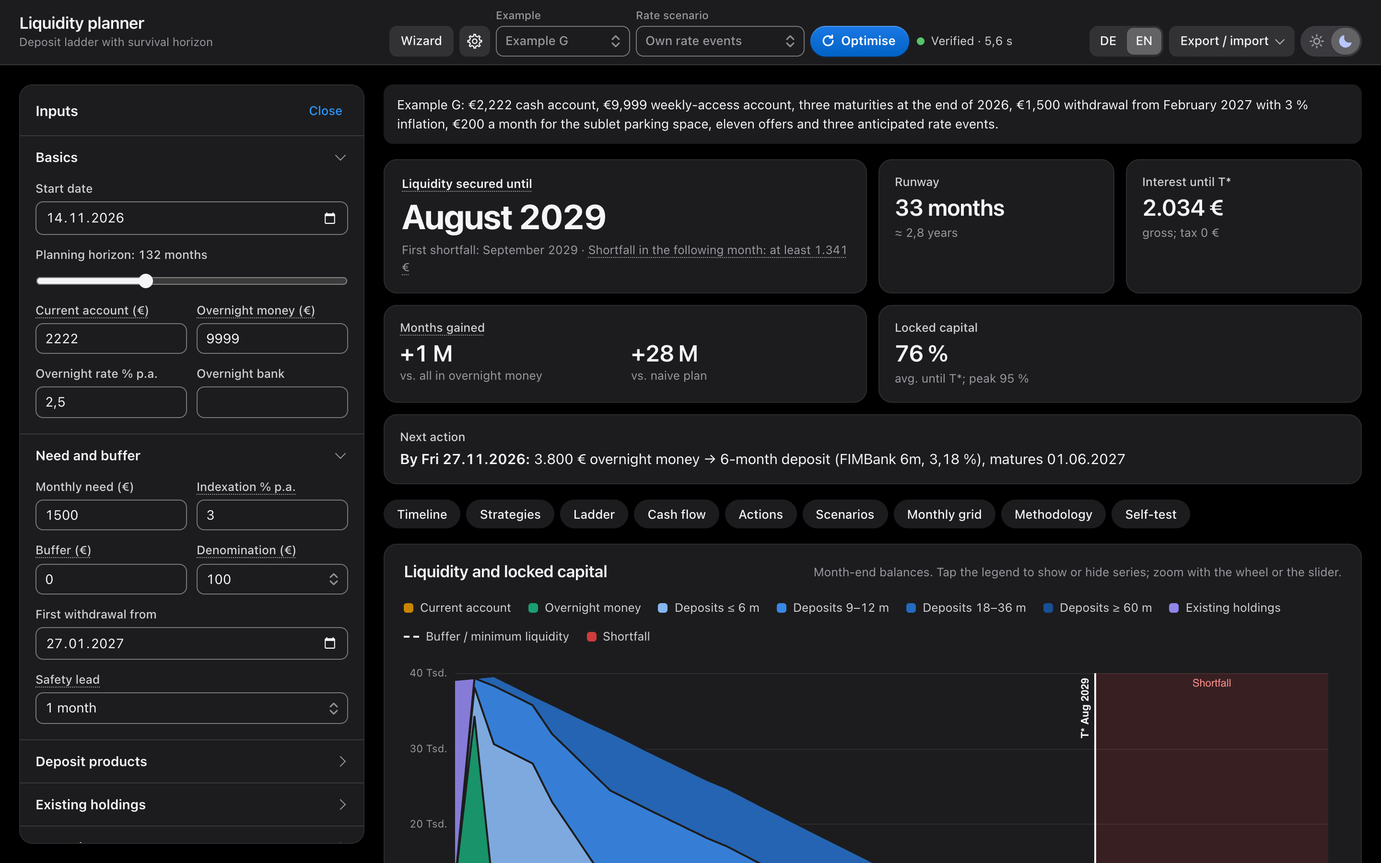
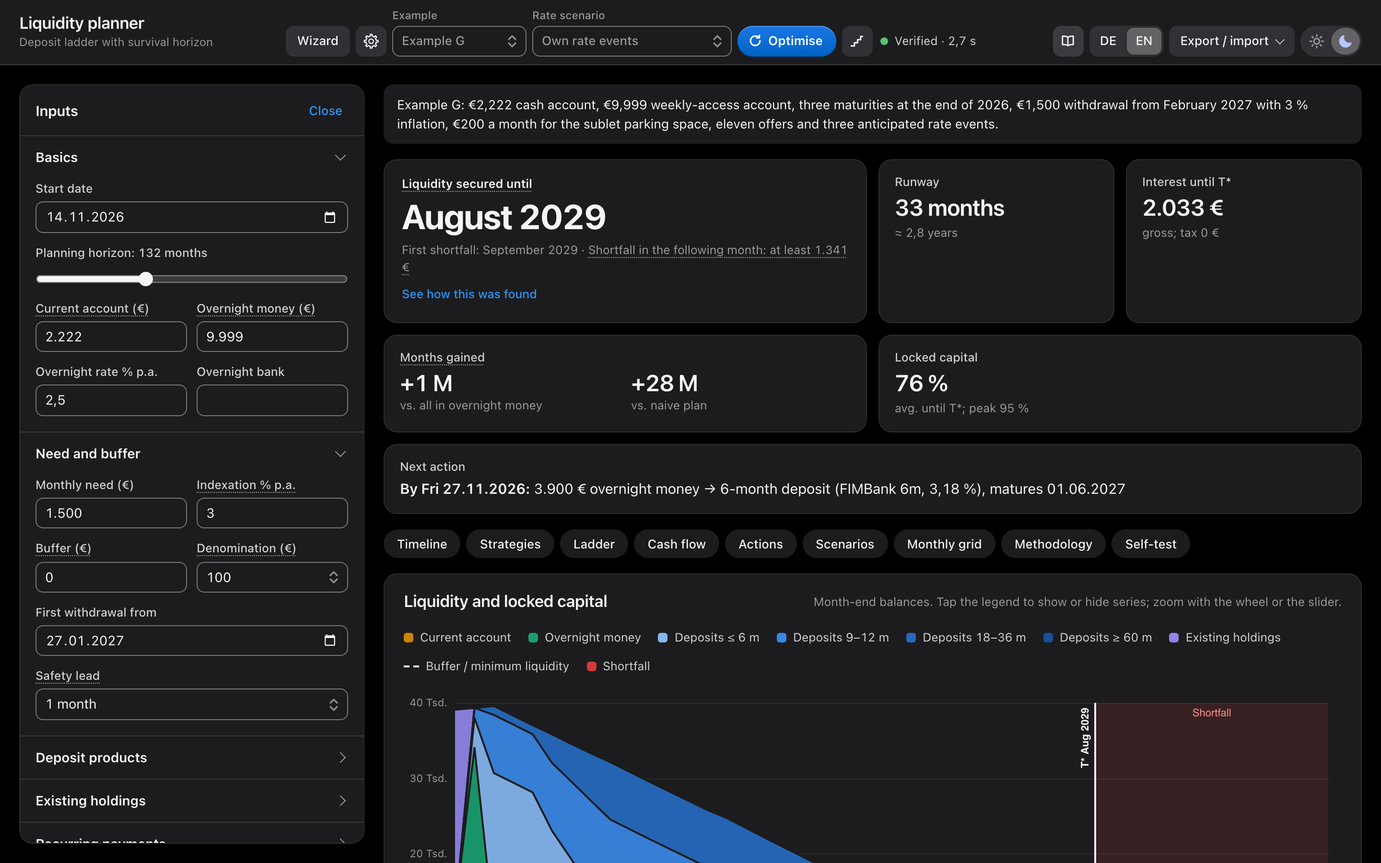
README for 1.3: handbook, theory chapters, ladder spreadsheet; code links realigned; screenshots refreshed

diff --git a/README.md b/README.md
@@ -49,22 +49,23 @@ Interest is a secondary goal by construction: it can never shorten T\*. There is
 | **KPIs** | T\*, runway in months, months gained against two baselines, interest until T\*, share of locked capital, the next action to take |
 | **Timeline** | Month-end balances as stacked areas: current account, overnight money, deposits by term bucket, existing holdings, buffer line, shortfall zone |
 | **Strategies** | Optimised plan vs. "everything in overnight money" vs. a naive rate chaser, as available liquidity or total wealth |
-| **Ladder** | One bar per tranche from placement to maturity, per year or for the whole horizon; tap a bar for details |
+| **Ladder** | One bar per tranche from placement to maturity, per year or for the whole horizon; tap a bar for details. *Download* saves the ladder as a small spreadsheet for Excel and Google Sheets |
 | **Cash flow** | Waterfall per year or month: opening balance, income, need, other expenses, placements, deposit repayments, overnight interest, tax, closing balance |
 | **Actions** | A dated to-do list: order deadlines, value dates, maturities, and the monthly transfer to the current account |
 | **Scenarios** | The whole optimisation re-run and re-verified under each interest-rate scenario |
 | **Monthly grid** | Month-by-month table. Extra need, extra income and a minimum liquidity can be overridden for single months |
 | **Step by step** | The decisions the optimiser took for the plan on screen, one at a time: each question and its answer, the months asked about so far, the plan at that step as month-end balances (or the progress of the integer search), and the linear system behind it |
-| **Methodology / Self-test** | The model explained inside the app, and a button that tests solver, simulator and Excel export against each other |
+| **Methodology / Self-test** | The model explained inside the app, and a button that tests solver, simulator, Excel export and ladder spreadsheet against each other |
+| **Handbook** | A page of its own with sixteen chapters, from a quick start to five theory chapters with formulas and an interactive simplex chart, plus frequently asked questions, the glossary and *What's new*; a search finds every word |
 
 <table>
 <tr>
-<td width="50%"><img src="docs/screenshots/start.png" alt="Blank start screen"><br><sub>Start: a blank slate with two ways in</sub></td>
+<td width="50%"><img src="docs/screenshots/start.png" alt="Blank start screen with the Handbook button and a link into the handbook"><br><sub>Start: a blank slate with two ways in, and the handbook</sub></td>
 <td width="50%"><img src="docs/screenshots/ready.png" alt="Example loaded, ready to optimise"><br><sub>Data loaded: Optimise is now active</sub></td>
 </tr>
 <tr>
 <td width="50%"><img src="docs/screenshots/wizard.png" alt="Setup wizard"><br><sub>Six-chapter setup wizard</sub></td>
-<td width="50%"><img src="docs/screenshots/ladder.png" alt="Deposit ladder as Gantt bars"><br><sub>Ladder: one bar per tranche</sub></td>
+<td width="50%"><img src="docs/screenshots/ladder.png" alt="Deposit ladder as Gantt bars, with the Download button in the card's head"><br><sub>Ladder: one bar per tranche, and the spreadsheet download</sub></td>
 </tr>
 <tr>
 <td><img src="docs/screenshots/actions.png" alt="Dated action list"><br><sub>What to do, and when</sub></td>
@@ -78,6 +79,10 @@ Interest is a secondary goal by construction: it can never shorten T\*. There is
 <td colspan="2"><img src="docs/screenshots/steps.png" alt="Step-by-step view: the list of steps, the question of step 7 and its answer, the horizon strip and the progress of the integer search"><br><sub>Step by step: how the plan was found, here the integer search against the best case</sub></td>
 </tr>
 <tr>
+<td><img src="docs/screenshots/handbook.png" alt="Handbook: search field, chapter menu in five groups and the Quick start chapter"><br><sub>Handbook: chapter menu, search, and a chapter</sub></td>
+<td><img src="docs/screenshots/theory.png" alt="Theory chapter: the simplex chart with the feasible region, the path to the optimum, sliders and the cross-check"><br><sub>Theory: the app's simplex walks to the optimum of a toy model</sub></td>
+</tr>
+<tr>
 <td><img src="docs/screenshots/overview-dark.png" alt="Dark theme"><br><sub>Dark theme</sub></td>
 <td align="center"><img src="docs/screenshots/mobile.png" alt="Phone layout" width="45%"><br><sub>Phone layout</sub></td>
 </tr>
@@ -86,20 +91,24 @@ Interest is a secondary goal by construction: it can never shorten T\*. There is
 ## Using the app
 
 - **Online**: open the [GitHub Pages site](https://julianhilgemann.github.io/liquiplan-app/).
-- **Your own copy**: save [the published page](https://julianhilgemann.github.io/liquiplan-app/Liquiditaetsplaner_20261114.html), or build it from this repository with `node build.mjs` (see the [code guide](#code-guide)), and open the file in a browser. It is one HTML file and needs no server. The page loads its charting, solver and Excel libraries from jsDelivr. If the solver libraries cannot load, a solver built into the page takes over.
+- **Your own copy**: save [the published page](https://julianhilgemann.github.io/liquiplan-app/Liquiditaetsplaner_20261114.html), or build it from this repository with `node build.mjs` (see the [code guide](#code-guide)), and open the file in a browser. It is one HTML file and needs no server. The page loads its charting, solver and Excel libraries from jsDelivr, and the formula typesetter when a theory chapter of the handbook is first opened. If the solver libraries cannot load, a solver built into the page takes over.
 - **First visit**: the app opens on a blank slate with two choices, *Open the wizard* or *Load example G*. **Optimise** stays greyed out until there is data. The setup wizard has six chapters, of which only the first two are required: starting liquidity and withdrawals, the economic baseline, expected central-bank rate steps, ongoing deposits, other recurring payments and new deposit offers. A chapter menu (a list on phones) jumps between them, and **Analysis** in the toolbar leads back. Once there is data, the gear button (*Inputs*) shows the same data as a side panel with a few extra settings (buffer, safety lead, denomination, tax, deposit-guarantee cap, pinned tranches).
 - **Examples**: *Example G* (the reference case from the original specification), *Retirement with rental income* (20 years, pension from 2028, large one-off repairs, tax on) and *Rate trap* (example G plus a tempting 10-year deposit at 5.9 % that a naive rate chaser falls for).
 - **Rate scenarios**: own central-bank steps, current rates held constant, −1 pp from 2028, rising rates (+0.5 pp a year up to +1.5 pp), inverted curve.
 - **Calculation is manual**: nothing is computed until you press **Optimise**, not even when the page opens or an example is loaded. A card then confirms that the data is loaded and points to the button. After an input change the old results are greyed out until the next run. A progress dialog then ticks off each optimisation stage; *Cancel* stops the run and keeps the previous results on screen.
 - **Step by step**: a page of its own, like the wizard, that replays the decisions the optimiser took for the plan on screen, one at a time, with the list of steps beside it and *Back* / *Next* below. Three ways in: the *Step by step* button in the toolbar (an icon only in windows from 721 to 1519 px wide), *See how this was found* in the *Liquidity secured until* tile, and the button in the Methodology section. Without a current result (none yet, or the inputs have changed since), each of them runs **Optimise** first and opens the page when the run is over. On phones the list and the step take turns: *All steps* leads to the list, a tap on a step opens it. ← and → move one step, Home and End jump to the first and the last, and Escape, *Analysis* in the toolbar or *Back to the analysis* on the last step lead back.
+- **Handbook**: *Handbook* in the toolbar opens the in-app handbook, a page of its own like the wizard. Above the analysis the button is an icon only in windows from 721 to 1599 px wide; it is also there, with its label, on the blank slate and in the wizard. The blank slate (*New here? …*), the Methodology section (*Explained in the handbook*) and the foot of the page link into it as well. Sixteen chapters in five groups: *Getting started* (*What Liquiplan is*, *Quick start*), *Using Liquiplan* (*Entering your data*, *Reading the results*, *How-tos*, *Your data and privacy*), *Background* (*How the optimiser thinks*), *Theory* (*Linear programming in one picture*, *The ladder as a linear model*, *One goal after another*, *Whole steps and minimum amounts*, *Why the result can be trusted*) and *Reference* (*Frequently asked questions* with 15 questions, *Glossary*, *What's new*, *Disclaimer*). The search above the chapter finds every word, with or without umlauts (`uber` and `ueber` both find *über*); ↑ / ↓ and Enter pick a result, and outside the theory chapters the words are marked in the section it opens. `/` jumps into the search, Escape clears it, and Escape anywhere else closes the handbook, as does the toolbar button, which reads *Analysis* while the handbook is open (*Wizard* if it was opened from the wizard).
+- **Handbook addresses** (in German, like the code: *Handbuch*): `#handbuch` opens the handbook (the chapter list on phones, otherwise the chapter read last, at first *What Liquiplan is*), `#handbuch/<chapter>` a chapter, `#handbuch/<chapter>/<section>` a section, and `#handbuch/<section-id>` finds a section by its id alone. Any part can be linked to: the app opened at `…/liquiplan-app/#handbuch/quick` starts on the quick start. Every chapter opened is a step in the browser history: Back goes back through the chapters and finally out of the handbook, and after leaving it, Back opens it again.
+- **Version and What's new**: the foot of the page shows the version (*Version 1.3*), which links to *What's new*, the handbook chapter that lists the changes of each version, newest first.
+- **Ladder spreadsheet**: *Download* in the head of *Building blocks of the deposit ladder* saves a small workbook (.xlsx, for Excel and Google Sheets) with every deposit of the plan, on three sheets. *Tranches* lists them with type, bank, term, placement and maturity month, principal, rate, interest convention, total interest, payout at maturity, effective yield and the interest that falls within the plan, with totals and principal-weighted averages. *Monthly* and *Yearly* show each tranche as a roll-forward per month and per calendar year: opening balance + placement + capitalised interest + repayment = closing balance, plus the interest it pays out. Above the tranches stand their totals, the cash view of the liquid accounts (placements flow out, repayments and interest flow in) and check rows that must be 0. Amounts are in accounting format, every derived cell is a live formula with its value stored, and the ladder's bars are drawn as conditional formats in the app's colours. In German the sheets are *Tranchen*, *Monatsplan* and *Jahresplan*. The button is greyed out while there is no result, during a run and while the results are out of date; pressed then, it says why.
 - **Numbers**: every number field accepts a decimal comma or a decimal point, whatever language the browser is set to (`3,12` and `3.12` are the same rate). In amounts, `10.000` and `10,000` both mean ten thousand. The field echoes back what it understood, and text that is not a number is flagged and ignored instead of being read as 0.
-- **Export / import**: HTML with your inputs embedded, an Excel workbook with live formulas, the full state as JSON, and the rate table as JSON (for quick updates of offers).
+- **Export / import**: HTML with your inputs embedded, an Excel workbook with live formulas (the whole model in nine sheets; the ladder spreadsheet above is the lean one), the full state as JSON, and the rate table as JSON (for quick updates of offers).
 
-**Where your data lives.** Inputs are stored only in your browser's `localStorage`. Nothing is sent to a server; the only network requests fetch the libraries. The published file itself contains no data and opens on the blank slate. *Download HTML* writes a copy of the app with your current inputs embedded, so treat that file like a private document.
+**Where your data lives.** Inputs are stored only in your browser's `localStorage`. Nothing is sent to a server; the only network requests fetch the libraries. The published file itself contains no data and opens on the blank slate. *Download HTML* writes a copy of the app with your current inputs embedded, so treat that file like a private document, and the same goes for both spreadsheets and the JSON.
 
 ## Glossary of German terms
 
-The code and UI use German finance terms. The English UI translates them; here they are side by side.
+The code and UI use German finance terms. The English UI translates them; here they are side by side. The app's own glossary is the fuller one: the handbook chapter *Glossary* explains 46 terms in both languages, from the same entries as the tooltips of the dotted-underlined terms ([`glossary.js`](src/app/i18n/glossary.js)).
 
 | German | English | Meaning in the app |
 |---|---|---|
@@ -237,11 +246,13 @@ HiGHS and javascript-lp-solver must each solve a tiny test MILP correctly on loa
 
 **Inside the embedded solver** ([`Dense`](src/solver/simplex.js#L16), [`solveMILP`](src/solver/simplex.js#L329)):
 
-- A **bounded-variable tableau simplex**: two-phase [primal](src/solver/simplex.js#L144) with artificial variables, and [dual simplex](src/solver/simplex.js#L199) re-optimisation after bound changes, so every B&B node is warm-started from its parent's basis. A periodic [`refactor()`](src/solver/simplex.js#L66) rebuilds the tableau from the original rows to remove floating-point drift.
+- A **bounded-variable tableau simplex**: two-phase [primal](src/solver/simplex.js#L144) with artificial variables, and [dual simplex](src/solver/simplex.js#L199) re-optimisation after bound changes. Branch-and-bound keeps one tableau for the whole search: each node applies its bounds to whatever basis the solver last had (in depth-first order often its parent's, otherwise that of the node evaluated just before) and re-optimises from there instead of starting from scratch. A periodic [`refactor()`](src/solver/simplex.js#L66) rebuilds the tableau from the original rows to remove floating-point drift.
 - **Branch-and-bound** as a [depth-first search](src/solver/simplex.js#L422) with bound pruning and absolute/relative gap tolerances. A root heuristic (round everything down, fix it, re-solve) provides an early incumbent. The search cycles through three branching rules in slices of its work budget: chronological with semi-integer violations first and the down branch first (50 % of the budget), largest value (to 75 %), most fractional with the nearest branch first (to 100 %). It stops as soon as one rule has searched the tree completely.
 - **Semi-integer branching**: a column with `0 < n < min` branches into `n = 0` and `n ≥ min`, with no binary helper variable.
 
-**What the engine records.** Every answer the engine uses is also written to a log ([`Engine.log`](src/solver/engine.js#L19), one entry per call from [`rec()`](src/solver/engine.js#L23)): the kind of call (LP, integer search or yes/no question), the backend that answered, the size of the model, its rows and columns counted by kind (by the first letter of their name in `model.js`: `b` balance rows, `x` tax rows, `n` placements, …) and the status. When the answer came from the embedded solver, the entry also has its simplex pivots ([`pivots()`](src/solver/simplex.js#L14)) and, for an integer search, the search nodes. Pivots are known only then: HiGHS (like javascript-lp-solver) hands back only the final answer, not how it got there. The log is what the step-by-step view shows under the hood (section 6).
+The handbook's chapter *Linear programming in one picture* runs this same `Dense` on a toy model with two deposits and draws every corner it visits on the way to the optimum ([`walk()`](src/app/handbook/simplex-chart.js#L37)).
+
+**What the engine records.** Every answer the engine uses is also written to a log ([`Engine.log`](src/solver/engine.js#L19), one entry per call from [`rec()`](src/solver/engine.js#L23)): the kind of call (LP, integer search or yes/no question), the backend that answered, the size of the model, its rows and columns counted by kind (by the first letter of their name in `model.js`: `b` balance rows, `x` tax rows, `n` placements, …) and the status. When the answer came from the embedded solver, the entry also has its simplex pivots (counted in [`PIVOTS`](src/solver/simplex.js#L14), read with `LP.simplex.pivots()`) and, for an integer search, the search nodes. Pivots are known only then: HiGHS (like javascript-lp-solver) hands back only the final answer, not how it got there. The log is what the step-by-step view shows under the hood (section 6).
 
 ### 5. Independent verification: [`LP.sim.run()`](src/app/sim.js#L10) and [`verify()`](src/app/sim.js#L113)
 
@@ -286,9 +297,20 @@ The workbook is written with ExcelJS and post-processed with JSZip. It has nine 
 - The `Solver` sheet comes with **pre-filled Excel Solver settings** (`solver_*` defined names) to re-run stage 2 (maximise wealth at a fixed T\*) inside Excel, with step-by-step instructions.
 - [`sensitivity()`](src/app/xlsx.js#L61) re-simulates the plan under parallel rate shifts.
 
-### 9. Self-test: [`A.selftest()`](src/app/selftest.js#L7)
+### 9. The ladder spreadsheet: [`LP.ladderXlsx.build()`](src/app/ladder-xlsx.js#L97)
 
-The **Self-test** button runs, for every example: the plan is verified and the simulated T\* ≥ the solver's T\*; the optimised T\* ≥ the all-overnight baseline. Then three property tests: the rate trap never ends worse than the plain case; **adding a product never shortens T\***; **adding an inflow never shortens T\***. Finally the Excel export is built, re-opened with ExcelJS, and its formula values are compared with the web simulation (≤ 1 cent per month, same first shortfall).
+The *Download* button of the ladder card writes a second, much smaller workbook: only the deposits of the plan, as described under [Using the app](#using-the-app). It is built for Excel and Google Sheets alike, so it keeps to what both understand:
+
+- Written with ExcelJS alone, with no JSZip post-processing and no charts. Formulas use classic functions only (`SUM`, `SUMIF`, `SUMPRODUCT`, `COUNTIF`, `INDEX`, `EDATE`, `ROUND`, …), and the conditional formats (the ladder bars, maturity months, the T\* month, red check rows) are rules of the "formula" and "cell value" kinds that refer only to their own sheet.
+- The terms of each tranche are the inputs (blue) on *Tranches*; the blocks of *Monthly* and *Yearly* link to them (green), so a changed amount, rate, term or placement month recalculates both schedules. *Yearly* sums the monthly rows, and a second check row compares its closing balances with *Monthly* at each year end.
+- The bookkeeping follows the simulator: placed at the start of the month, repaid in the maturity month; *annual* pays interest out on each anniversary, *compound* adds it to the balance there, and an existing holding is a *simple* tranche whose term counts from the plan start. The schedule runs from the plan start to the last maturity, or to the end of the horizon for a tranche that matures later.
+- [`schedule()`](src/app/ladder-xlsx.js#L44) computes every formula cell in plain JS, the way the sheet computes it. Its values are stored as cached results, so the numbers show in viewers that do not recalculate, and the self-test compares them with the simulator.
+
+For this release every formula was verified by recalculating it with an independent formula engine; the file has not yet been opened in Excel or Google Sheets themselves.
+
+### 10. Self-test: [`A.selftest()`](src/app/selftest.js#L7)
+
+The **Self-test** button runs eleven checks. For every example: the plan is verified and the simulated T\* ≥ the solver's T\*; the optimised T\* ≥ the all-overnight baseline. Then three property tests: the rate trap never ends worse than the plain case; **adding a product never shortens T\***; **adding an inflow never shortens T\***. Then the Excel export is built, re-opened with ExcelJS, and its formula values are compared with the web simulation (≤ 1 cent per month, same first shortfall). Finally the ladder spreadsheet is built for example G and read back: in every month the tranches' closing balances add up to the locked capital, the placement, repayment and interest lines match the simulator's to the cent, and every check row is 0.
 
 ### Simplifications
 
@@ -319,12 +341,12 @@ The build needs Node.js and nothing else. It does not bundle, transpile or minif
 |---|---|---|---|
 | [`src/index.html`](src/index.html) | the page | – | the template: the head, the order of all includes, and [`<script id="src-theme">`](src/index.html#L10), which applies the saved light/dark choice before the first paint |
 | [`src/styles/`](src/styles/) | [`<style id="css">`](src/styles/tokens.css#L1) | – | the design system and the styles of each part of the page (see [Styles](#styles)) |
-| [`src/markup/`](src/markup/) | [`<div id="app">`](src/markup/toolbar.html#L1) | – | the static page skeleton: toolbar, wizard, the step-by-step view, the workspace with one file per result section, overlays |
+| [`src/markup/`](src/markup/) | [`<div id="app">`](src/markup/toolbar.html#L1) | – | the static page skeleton: toolbar, wizard, the step-by-step view, the handbook, the workspace with one file per result section and the footer, overlays |
 | [`src/core/`](src/core/) | [`<script id="src-core">`](src/core/core.js#L1) | main thread **and** worker | `core.js` (dates, calendar, timeline), `presets.js` |
 | [`src/solver/`](src/solver/) | [`<script id="src-solver">`](src/solver/model.js#L1) | worker | `model.js`, `simplex.js`, `backends.js`, `engine.js`, `optimize.js`, `workerglue.js` |
-| [`src/app/`](src/app/) | [`<script id="src-app">`](src/app/sim.js#L1) | main thread | `sim.js`, `i18n/`, `ui/`, `views/`, `xlsx.js`, `wizard.js`, `export.js`, `selftest.js`, `main.js` |
+| [`src/app/`](src/app/) | [`<script id="src-app">`](src/app/sim.js#L1) | main thread | `sim.js`, `i18n/`, `ui/`, `views/`, `xlsx.js`, `ladder-xlsx.js`, `wizard.js`, `handbook.js`, `export.js`, `selftest.js`, `handbook/` (the theory chapters), `main.js` |
 
-The page also carries [`<script id="embedded-state">`](src/index.html#L69): the inputs a downloaded copy was saved with, empty in the published app.
+The page also carries [`<script id="embedded-state">`](src/index.html#L74): the inputs a downloaded copy was saved with, empty in the published app.
 
 The three script blocks are a functional split: the worker is assembled from the text of `src-core` + `src-solver`, so a file's folder decides where it runs.
 
@@ -341,8 +363,9 @@ There are no ES modules. Every `.js` file is an IIFE that hangs its API on one g
 | [`controls.css`](src/styles/controls.css) | Fields, buttons, segmented control, theme switch |
 | `toolbar.css`, `shell.css`, `inputs.css` | Top bar with solver status and export menu, the two-column layout with the inputs drawer, input groups and entry cards |
 | `cards.css`, `kpis.css`, `notes.css`, `charts.css`, `tables.css` | Building blocks of the results: cards, KPI tiles, pills and notes and the section navigation, chart sizes and legends, tables |
-| `ladder.css`, `ladder-years.css`, `actions.css`, `waterfall.css`, `strategies.css` | One result section each |
-| `methodology.css`, `dialogs.css`, `empty-state.css`, `progress.css`, `wizard.css`, `replay.css`, `stale.css` | Methodology text and glossary tooltip, toasts and the JSON dialog, the blank slate, the progress dialog, the setup wizard, the step-by-step view, the "inputs changed" bar |
+| `ladder.css`, `ladder-years.css`, `actions.css`, `waterfall.css`, `strategies.css` | One result section each; `ladder.css` also styles the ladder's *Download* button |
+| `methodology.css`, `dialogs.css`, `empty-state.css`, `progress.css` | Methodology text and glossary tooltip, toasts and the JSON dialog, the blank slate, the progress dialog |
+| `wizard.css`, `replay.css`, `handbook.css`, `handbook-theory.css`, `stale.css` | The page modes: the setup wizard, the step-by-step view, the handbook (its toolbar button, search, menu, chapters, the page footer) and its theory chapters (formulas, the simplex chart); the "inputs changed" bar |
 | [`responsive.css`](src/styles/responsive.css) | Phones, touch targets, *Reduce Motion*. Last, so that it overrides the rest |
 
 ### How the parts work together
@@ -355,6 +378,7 @@ flowchart LR
         SS --> V["LP.sim.verify()"]
         V --> RA["renderAll()"]
         V --> X["LP.xlsx.build()"]
+        V --> LX["LP.ladderXlsx.build()<br/>(ladder spreadsheet)"]
         V --> RP["A.replay<br/>(step by step)"]
     end
     subgraph worker["Web Worker (src-core + src-solver)"]
@@ -366,7 +390,7 @@ flowchart LR
     OPT -- "placements, T*, trace" --> SS
 ```
 
-Besides the plan, the result carries the trace of the run (`res.trace`). The step-by-step view reads it from `A.view` only when it is opened; the result views do not use it.
+Besides the plan, the result carries the trace of the run (`res.trace`). The step-by-step view reads it from `A.view` only when it is opened; the result views do not use it. Both workbooks are built from `A.view` only when their button is pressed. The handbook stands apart from the run: it reads its texts, the glossary and the changelog, and only the theory chart touches solver code (it runs `LP.simplex.Dense` on a toy model of its own, on the main thread).
 
 ### Follow one run
 
@@ -379,6 +403,37 @@ If you want to read the code end to end, this is the order in which it executes 
 5. The result returns to `solveState`, goes through [`verify()`](src/app/sim.js#L113), and lands in `A.view`.
 6. [`renderAll()`](src/app/views/render.js#L38) draws KPIs, charts, ladder, waterfall, actions, scenarios and grid from `A.view`.
 7. When the scenarios are done, `A.run` calls [`A.replay.runDone()`](src/app/views/replay.js#L494) with its run id ([`A.runId`](src/app/views/pipeline.js#L71)). If the step-by-step view was asked for before this run, it opens now.
+
+### The handbook and the changelog
+
+The handbook ([`markup/handbook.html`](src/markup/handbook.html), [`app/handbook.js`](src/app/handbook.js)) is a page mode like the wizard and the step-by-step view: it puts the class `hb` on `#app`, hides the workspace and trims the toolbar to the way back, language and theme. Its chapters come from four sources. The menu, the page and the search index are all built from the same chapter list, so what is searched is what is shown.
+
+| Source | Becomes |
+|---|---|
+| [`app/i18n/handbook-de.js`](src/app/i18n/handbook-de.js), [`handbook-en.js`](src/app/i18n/handbook-en.js) (`LP.hb.de`, `LP.hb.en`) | The text chapters, one entry each: `{ t: title, l: lead, s: [[section id, title, html], …] }`. Section ids are the same in both languages and unique in the page, because they are addresses |
+| [`app/i18n/glossary.js`](src/app/i18n/glossary.js) (`LP.i18n.gloss`) | The *Glossary* chapter, one section per term; the same entries are behind the dotted-underlined terms everywhere in the app |
+| [`app/i18n/changelog.js`](src/app/i18n/changelog.js) (`LP.changelog`) | The *What's new* chapter, and `A.version`: the version the app shows is the first entry's |
+| `LP.hb.extra` | Chapters that other files add. [`app/handbook/theory.js`](src/app/handbook/theory.js) adds the five theory chapters there, with their texts in [`theory-de.js`](src/app/handbook/theory-de.js) and [`theory-en.js`](src/app/handbook/theory-en.js) and the chart in [`simplex-chart.js`](src/app/handbook/simplex-chart.js) |
+
+**Markup in the texts.** Titles and HTML of the text chapters may contain:
+
+- `[[key]]`: a UI label exactly as the app shows it, from `de.js` or `en.js`, so the handbook cannot drift from the buttons it names;
+- `[[#id]]`: a link to a chapter or a section, with the target's title as its text;
+- `{key}` or `{key|text}`: a glossary term with its tooltip;
+- `data-needs="<chapter id>"` on a `p`, `div` or `li`: the element is left out while that chapter does not exist, so the text chapters can refer to the theory chapters without depending on them.
+
+The theory texts use `$…$` for inline and `$$…$$` for display formulas (TeX, typeset by MathJax) and the same glossary markup. UI strings of the handbook live in `de.js` and `en.js` under the prefix `hb_` (those of the ladder spreadsheet under `lx_`).
+
+**Adding a chapter.** A file pushes an object onto `LP.hb.extra`: `{ id: 'th-…', title: { de, en }, sections: [{ id, title: { de, en }, text: { de, en } }], render(box, lang), teardown() }`. `render` fills an empty block element and creates one element per section whose `id` is the section's id; `text` is the plain text the search indexes; `teardown`, if present, runs before the chapter is left or drawn again. Such chapters appear in the menu group *Theory* after *How the optimiser thinks*; without any, the group is left out.
+
+**Addresses are the only state.** Links in the handbook are plain links to `#handbuch/…`, and the page follows `hashchange` and `popstate`, so every chapter opened is a history entry. [`A.handbook`](src/app/handbook.js#L27) offers `open(id)`, `close()`, `render()` (after a change of language or theme) and `isOpen()`, and for tests `index`, `search` and `chapters`.
+
+**The changelog rule.** Every user-visible change adds an item to [`changelog.js`](src/app/i18n/changelog.js), in German and in English, in the same commit as the change (refactoring, tests and the build get none). Version numbers are MAJOR.MINOR, with a third number for a release that only fixes things (1.3.1): MINOR goes up with every release that adds or changes something users see, MAJOR only when saved inputs or the JSON format stop working with the new version (the [state format](#state-format) is v1). The handbook section that describes the changed behaviour and this README move with the change too.
+
+### Before a pull request
+
+- [`CLAUDE.md`](CLAUDE.md) holds the working rules for AI-assisted development of this repository: what the code relies on, which documents move with a change, how a change is checked and released. It is a useful checklist for any contributor.
+- Run `node scripts/check.mjs` before opening a pull request. It builds the app, drives it in a headless browser, compares the plans with a baseline and checks that the links from this README into the code still point at their functions.
 
 ## Function reference
 
@@ -425,7 +480,7 @@ If you want to read the code end to end, this is the order in which it executes 
 | [`Dense.prototype.refactor`](src/solver/simplex.js#L66) | Rebuild the tableau from the original rows (removes drift) |
 | [`solveLP`](src/solver/simplex.js#L295) | One LP solve |
 | [`now`](src/solver/simplex.js#L13) | The work clock: every limit of the embedded solver is measured on it |
-| [`pivots`](src/solver/simplex.js#L14) | Number of simplex pivots so far, for the trace of a run. It only counts and never limits, so it cannot change a result |
+| [`PIVOTS`](src/solver/simplex.js#L14) / `pivots()` | Number of simplex pivots so far, read with `pivots()`, for the trace of a run. It only counts and never limits, so it cannot change a result |
 | [`polish`](src/solver/simplex.js#L304) | Fix rounded integers, re-solve the continuous rest exactly |
 | [`solveMILP`](src/solver/simplex.js#L329) | Branch-and-bound: root heuristic, [DFS](src/solver/simplex.js#L422), branching rules, gap control. Also returns the [`trail`](src/solver/simplex.js#L398): each better plan as the node count at which it was found and its objective (at most 300, always ending at the plan returned) |
 
@@ -462,7 +517,7 @@ The backends behind one interface, the engine that decides which backend answers
 
 ### `app/i18n/` – texts (`LP.i18n`)
 
-The UI strings in [German](src/app/i18n/de.js) and [English](src/app/i18n/en.js) under the same keys (those of the step-by-step view start with `rp_`), the [glossary](src/app/i18n/glossary.js#L6) behind the dotted terms, and the [methodology text](src/app/i18n/methodology.js#L6) shown in the app.
+The UI strings in [German](src/app/i18n/de.js) and [English](src/app/i18n/en.js) under the same keys (those of the step-by-step view start with `rp_`, of the handbook with `hb_`, of the ladder spreadsheet with `lx_`), the [glossary](src/app/i18n/glossary.js#L6) behind the dotted terms and the handbook's *Glossary*, the [methodology text](src/app/i18n/methodology.js#L6) shown in the app, the [changelog](src/app/i18n/changelog.js#L16) (`LP.changelog`, newest release first) and the handbook's text chapters in [German](src/app/i18n/handbook-de.js#L12) and [English](src/app/i18n/handbook-en.js#L7) (`LP.hb.de`, `LP.hb.en`).
 
 ### `app/ui/` – state, formatting, solver client, input drawer (`LP.app`, alias `A`)
 
@@ -470,7 +525,8 @@ In load order: `dom.js`, `state.js`, `format.js`, `tooltip.js`, `solver-client.j
 
 | Function | Purpose |
 |---|---|
-| [`el`](src/app/ui/dom.js#L17) | Builds a DOM element from a tag, properties and children; used for nearly all markup the scripts create |
+| [`A.CDN`](src/app/ui/dom.js#L7) | The pinned addresses of every library the page loads (see [Dependencies](#dependencies-and-deployment)) |
+| [`el`](src/app/ui/dom.js#L18) | Builds a DOM element from a tag, properties and children; used for nearly all markup the scripts create |
 | [`normalize`](src/app/ui/state.js#L12) / [`loadState`](src/app/ui/state.js#L32) | Fill defaults; load from `localStorage`, else the embedded state, else a blank state ([`A.blankState`](src/app/ui/state.js#L28)) |
 | [`A.save`](src/app/ui/state.js#L39) | Debounced save to `localStorage` |
 | [`t`](src/app/ui/format.js#L7), [`A.eur`](src/app/ui/format.js#L15), [`A.monthLabel`](src/app/ui/format.js#L52), … | Translation and number/date formatting |
@@ -490,7 +546,8 @@ One file per result view, plus `shared.js` (what the views have in common), `ren
 | [`renderMain`](src/app/views/timeline.js#L61) | Liquidity and locked-capital area chart (ECharts) |
 | [`balances`](src/app/views/timeline.js#L16), [`balanceItems`](src/app/views/timeline.js#L8), [`balanceOption`](src/app/views/timeline.js#L48) | The parts of that chart for one simulated plan: series and tooltip, legend entries, chart options. Shared by the main chart and the step-by-step view |
 | [`renderStrat`](src/app/views/strategies.js#L9) | Strategy comparison |
-| [`renderLadder`](src/app/views/ladder.js#L30), [`trancheDates`](src/app/views/ladder.js#L8), [`trancheTotals`](src/app/views/ladder.js#L19) | Ladder (Gantt) and tranche details |
+| [`renderLadder`](src/app/views/ladder.js#L39), [`trancheDates`](src/app/views/ladder.js#L8), [`trancheTotals`](src/app/views/ladder.js#L19) | Ladder (Gantt) and tranche details |
+| [`xlsxBlock`](src/app/views/ladder.js#L31) / [`syncXlsx`](src/app/views/ladder.js#L32) | As `A.ladXlsxBlock`: why the ladder spreadsheet cannot be downloaded right now (no result, a run in progress, results out of date), or nothing. As `A.syncLadXlsx`: the *Download* button's state to match, `aria-disabled` with the reason as its title; the pipeline calls it whenever a run starts or ends or the inputs change |
 | [`renderWf`](src/app/views/waterfall.js#L18) | Cash-flow waterfall |
 | [`buildActions`](src/app/views/actions.js#L7) / [`renderActions`](src/app/views/actions.js#L24) | Dated action list |
 | [`renderScen`](src/app/views/scenarios.js#L7) | Scenario chart and table |
@@ -513,6 +570,15 @@ One file per result view, plus `shared.js` (what the views have in common), `ren
 | [`sensitivity`](src/app/xlsx.js#L61) | Plan re-simulated under parallel rate shifts |
 | [`build`](src/app/xlsx.js#L70) | Writes the nine sheets, charts and Solver names |
 
+### `app/ladder-xlsx.js` – the ladder spreadsheet (`LP.ladderXlsx`)
+
+| Function | Purpose |
+|---|---|
+| [`order`](src/app/ladder-xlsx.js#L30) | The tranches in reading order: existing holdings first, then by placement month and maturity, as the ladder shows them |
+| [`contract`](src/app/ladder-xlsx.js#L36) | Total interest, payout and effective yield of one tranche over its full life, also when it matures after the plan |
+| [`schedule`](src/app/ladder-xlsx.js#L44) | Every formula cell in plain JS: per tranche and month the opening balance, placement, capitalised interest, repayment, closing balance and interest paid out; the same per calendar year; the totals, the cash lines and the checks. Stored as cached values and read by the self-test |
+| [`build`](src/app/ladder-xlsx.js#L97) | `build(ctx, ExcelJS)` writes the three sheets (*Tranches* / *Tranchen*, *Monthly* / *Monatsplan*, *Yearly* / *Jahresplan*) with formulas, styles, conditional formats, row groups and print setup; returns the file, the schedule and the row layout |
+
 ### `app/wizard.js` – six-chapter setup (`A.wizard`)
 
 | Function | Purpose |
@@ -520,16 +586,52 @@ One file per result view, plus `shared.js` (what the views have in common), `ren
 | [`W.render`](src/app/wizard.js#L174), [`W.go`](src/app/wizard.js#L194), [`W.show`](src/app/wizard.js#L196), [`W.finish`](src/app/wizard.js#L207) | Chapter navigation; edits only mark results stale, they never start a calculation |
 | [`rows`](src/app/wizard.js#L68), [`q`](src/app/wizard.js#L64), [`yesNo`](src/app/wizard.js#L59) | Repeating row editors, numbered questions and yes/no switches. "No" parks rows in `state.stash` instead of deleting them |
 
-### `app/export.js`, `selftest.js`, `main.js` – files, self-test, start-up
+### `app/handbook.js` – the handbook page (`A.handbook`)
+
+| Function | Purpose |
+|---|---|
+| [`chapters`](src/app/handbook.js#L39) | The chapter list of the current language in menu order, from the outline, the texts, the glossary, the changelog and `LP.hb.extra`; cached per language and number of extra chapters |
+| [`textCh`](src/app/handbook.js#L56), [`glossCh`](src/app/handbook.js#L66), [`newsCh`](src/app/handbook.js#L75), [`extraCh`](src/app/handbook.js#L82) | One chapter of each kind in the common shape `{ id, kind, title, lead, sections }` |
+| [`rich`](src/app/handbook.js#L92) / [`plain`](src/app/handbook.js#L99) | The text markup turned into HTML for the page, or into plain text for the search index |
+| [`fold`](src/app/handbook.js#L107) | Text folded for comparison: lower case, no accents, hyphens or apostrophes, ß as ss, umlauts once as two letters (*ueber*) and once as the plain vowel (*uber*), with a map back to the original positions |
+| [`index`](src/app/handbook.js#L119) | One search entry per chapter and section: title, text and chapter title, each in both folded forms |
+| [`score`](src/app/handbook.js#L141) / [`search`](src/app/handbook.js#L156) | Ranking: every word must occur in the section or its chapter's title, at least one in the section itself; words in a title, at the start of a word, the whole query as a phrase and an exact title count extra; ties keep the handbook's order |
+| [`ranges`](src/app/handbook.js#L165), [`highlight`](src/app/handbook.js#L177), [`snippet`](src/app/handbook.js#L182) | Where the search words are in a text; the text with them marked; a snippet of about 180 characters around the first one |
+| [`parse`](src/app/handbook.js#L326) / [`route`](src/app/handbook.js#L327) | An address taken apart into chapter and section; following it on `hashchange` and `popstate` |
+| [`show`](src/app/handbook.js#L339) / [`reveal`](src/app/handbook.js#L351) | Draws a chapter unless it is already on screen; scrolls to a section, focuses its heading and marks the search words in it |
+| [`enter`](src/app/handbook.js#L378) / [`close`](src/app/handbook.js#L386) | Switch the page mode on (closing the step-by-step view if it is open) and off; `close` returns to the scroll position the page had |
+| [`render`](src/app/handbook.js#L400) | Draws everything again after a change of language or theme, keeping the section being read in place; also writes the version into the page footer |
+
+### `app/handbook/` – the theory chapters (`LP.hb.extra`, `LP.hb.lpChart`)
+
+In load order: `theory-de.js` and `theory-en.js` (the texts, `LP.hb.theoryText`), `simplex-chart.js`, `theory.js`. They load after `handbook.js`, which picks up the chapters whenever its list is next built.
+
+| Function | Purpose |
+|---|---|
+| [`chapter`](src/app/handbook/theory.js#L122) | One theory chapter in the `LP.hb.extra` shape; `th-lp`, `th-model`, `th-lex`, `th-int` and `th-check` are added in this order |
+| [`toHtml`](src/app/handbook/theory.js#L22) / [`plain`](src/app/handbook/theory.js#L40) | A text with `$…$`, `$$…$$` and glossary terms turned into HTML with MathJax delimiters, or into plain text for the search, with inline TeX as readable symbols |
+| [`mathjax`](src/app/handbook/theory.js#L48) | Loads MathJax ([`A.CDN.mathjax`](src/app/ui/dom.js#L13)) once, configured so that it typesets nothing by itself; after a failed load the next chapter tries again |
+| [`typeset`](src/app/handbook/theory.js#L92) / [`fallback`](src/app/handbook/theory.js#L87) | Typesets one chapter's formulas; if MathJax cannot be loaded within 20 seconds, the TeX source stays readable and a note says so |
+| [`start`](src/app/handbook/theory.js#L105) / [`stop`](src/app/handbook/theory.js#L114) | Renders a chapter and mounts the chart where its text has a `.th-chart` element; tears both down |
+| [`halfPlanes`](src/app/handbook/simplex-chart.js#L19), [`gains`](src/app/handbook/simplex-chart.js#L25), [`model`](src/app/handbook/simplex-chart.js#L27) | The toy problem: how much of €100,000 goes into a 12-month and how much into a 24-month deposit, as four conditions and an objective, shaped like a model from `model.js` |
+| [`walk`](src/app/handbook/simplex-chart.js#L37) | Solves it with `LP.simplex.Dense` and records every corner on the way: it wraps the solver's `pivot` method and watches its bound flags (`atUp`), so each corner drawn is one the solver visited |
+| [`corners`](src/app/handbook/simplex-chart.js#L67) / [`grid`](src/app/handbook/simplex-chart.js#L78) | The brute-force cross-check shown below the chart (every corner of the feasible region) and the best point on the €10,000 grid |
+| [`mount`](src/app/handbook/simplex-chart.js#L96) | The interactive SVG chart: the path with *Back*, *Next*, *Play* and *Start again*, sliders for both rates and the payment, a draggable condition, the whole-step grid; returns `{ destroy }` |
+
+`walk` depends on how `Dense` pivots and flips bounds. A change there can break the path the chart draws, and the cross-check line below the chart would then show the mismatch. Plans are not affected: each `Dense` starts from its model alone.
+
+### `app/export.js`, `selftest.js`, `main.js` – files, downloads, self-test, start-up
 
 | Function | Purpose |
 |---|---|
 | [`A.saveFile`](src/app/export.js#L11) | Download helper |
 | [`A.buildHtml`](src/app/export.js#L30) | Re-assembles the page from its own blocks, with the current state embedded |
-| [`A.exportXlsx`](src/app/export.js#L49) | Loads ExcelJS + JSZip on demand and builds the workbook |
+| [`A.xlsxLibs`](src/app/export.js#L44) | Loads ExcelJS and JSZip from the CDN, once, for either workbook |
+| [`A.exportXlsx`](src/app/export.js#L49) | Builds and saves the full Excel workbook |
+| [`ladderCtx`](src/app/export.js#L60) / [`A.exportLadderXlsx`](src/app/export.js#L61) | What the ladder spreadsheet is built from (plan, simulation, language, scenario name, time); the *Download* button's handler, which says why when the download is blocked and checks again after loading the library, in case the result changed meanwhile |
 | [`applyState`](src/app/main.js#L20) / [`applyRates`](src/app/main.js#L29) | JSON import of the full state (own format or the spec format) or of the rate table |
 | [`A.selftest`](src/app/selftest.js#L7) | The self-test described above |
-| [`wire`](src/app/main.js#L49) / [start-up](src/app/main.js#L112) | Event wiring, first render (blank slate, or the ready card for saved inputs) and a warm-up of the solver worker; the first optimisation waits for **Optimise** |
+| [`wire`](src/app/main.js#L49) / [start-up](src/app/main.js#L113) | Event wiring, first render (blank slate, or the ready card for saved inputs) and a warm-up of the solver worker; the first optimisation waits for **Optimise** |
 
 ## State format
 
@@ -552,17 +654,20 @@ The complete input is one JSON object (*Export / import → State as JSON*). The
 
 The importer also accepts the `deposit-savings-planner` JSON from the original specification and converts it with `fromWizardJson()`.
 
+This is version 1 of the format. A release after which saved inputs or exported JSON no longer load raises the app's MAJOR version (see [the changelog rule](#the-handbook-and-the-changelog)).
+
 ## Dependencies and deployment
 
-The app has no npm dependencies. Its libraries are loaded at run time from jsDelivr, with pinned versions:
+The app has no npm dependencies. Its libraries are loaded at run time from jsDelivr, with the pinned versions listed in [`A.CDN`](src/app/ui/dom.js#L7):
 
 | Library | Version | Used for |
 |---|---|---|
-| [ECharts](https://echarts.apache.org) | 5.5.1 | all charts |
+| [ECharts](https://echarts.apache.org) | 5.5.1 | the charts of the analysis and the step-by-step view (the ladder and the handbook's simplex chart are drawn without it) |
 | [HiGHS](https://github.com/lovasoa/highs-js) | 1.15.4 | LP solver and yes/no questions (WebAssembly) |
 | [javascript-lp-solver](https://github.com/JWally/jsLPSolver) | 0.4.24 | secondary LP solver |
-| [ExcelJS](https://github.com/exceljs/exceljs) | 4.4.0 | Excel export (loaded on demand) |
-| [JSZip](https://stuk.github.io/jszip/) | 3.10.1 | chart and Solver-name injection into the xlsx |
+| [ExcelJS](https://github.com/exceljs/exceljs) | 4.4.0 | Excel export and ladder spreadsheet (loaded on demand) |
+| [JSZip](https://stuk.github.io/jszip/) | 3.10.1 | chart and Solver-name injection into the full Excel export (loaded together with ExcelJS) |
+| [MathJax](https://www.mathjax.org) | 3.2.2 | formulas of the handbook's theory chapters, as SVG (`es5/tex-svg.js`); loaded only when a theory chapter is first opened. If it cannot load, the TeX source stays readable |
 
 The site is published by [`.github/workflows/pages.yml`](.github/workflows/pages.yml): on every push to `main` it runs `node build.mjs` and deploys the built file to GitHub Pages as `index.html`. If the build fails, nothing is deployed and the site keeps its last version.
 
